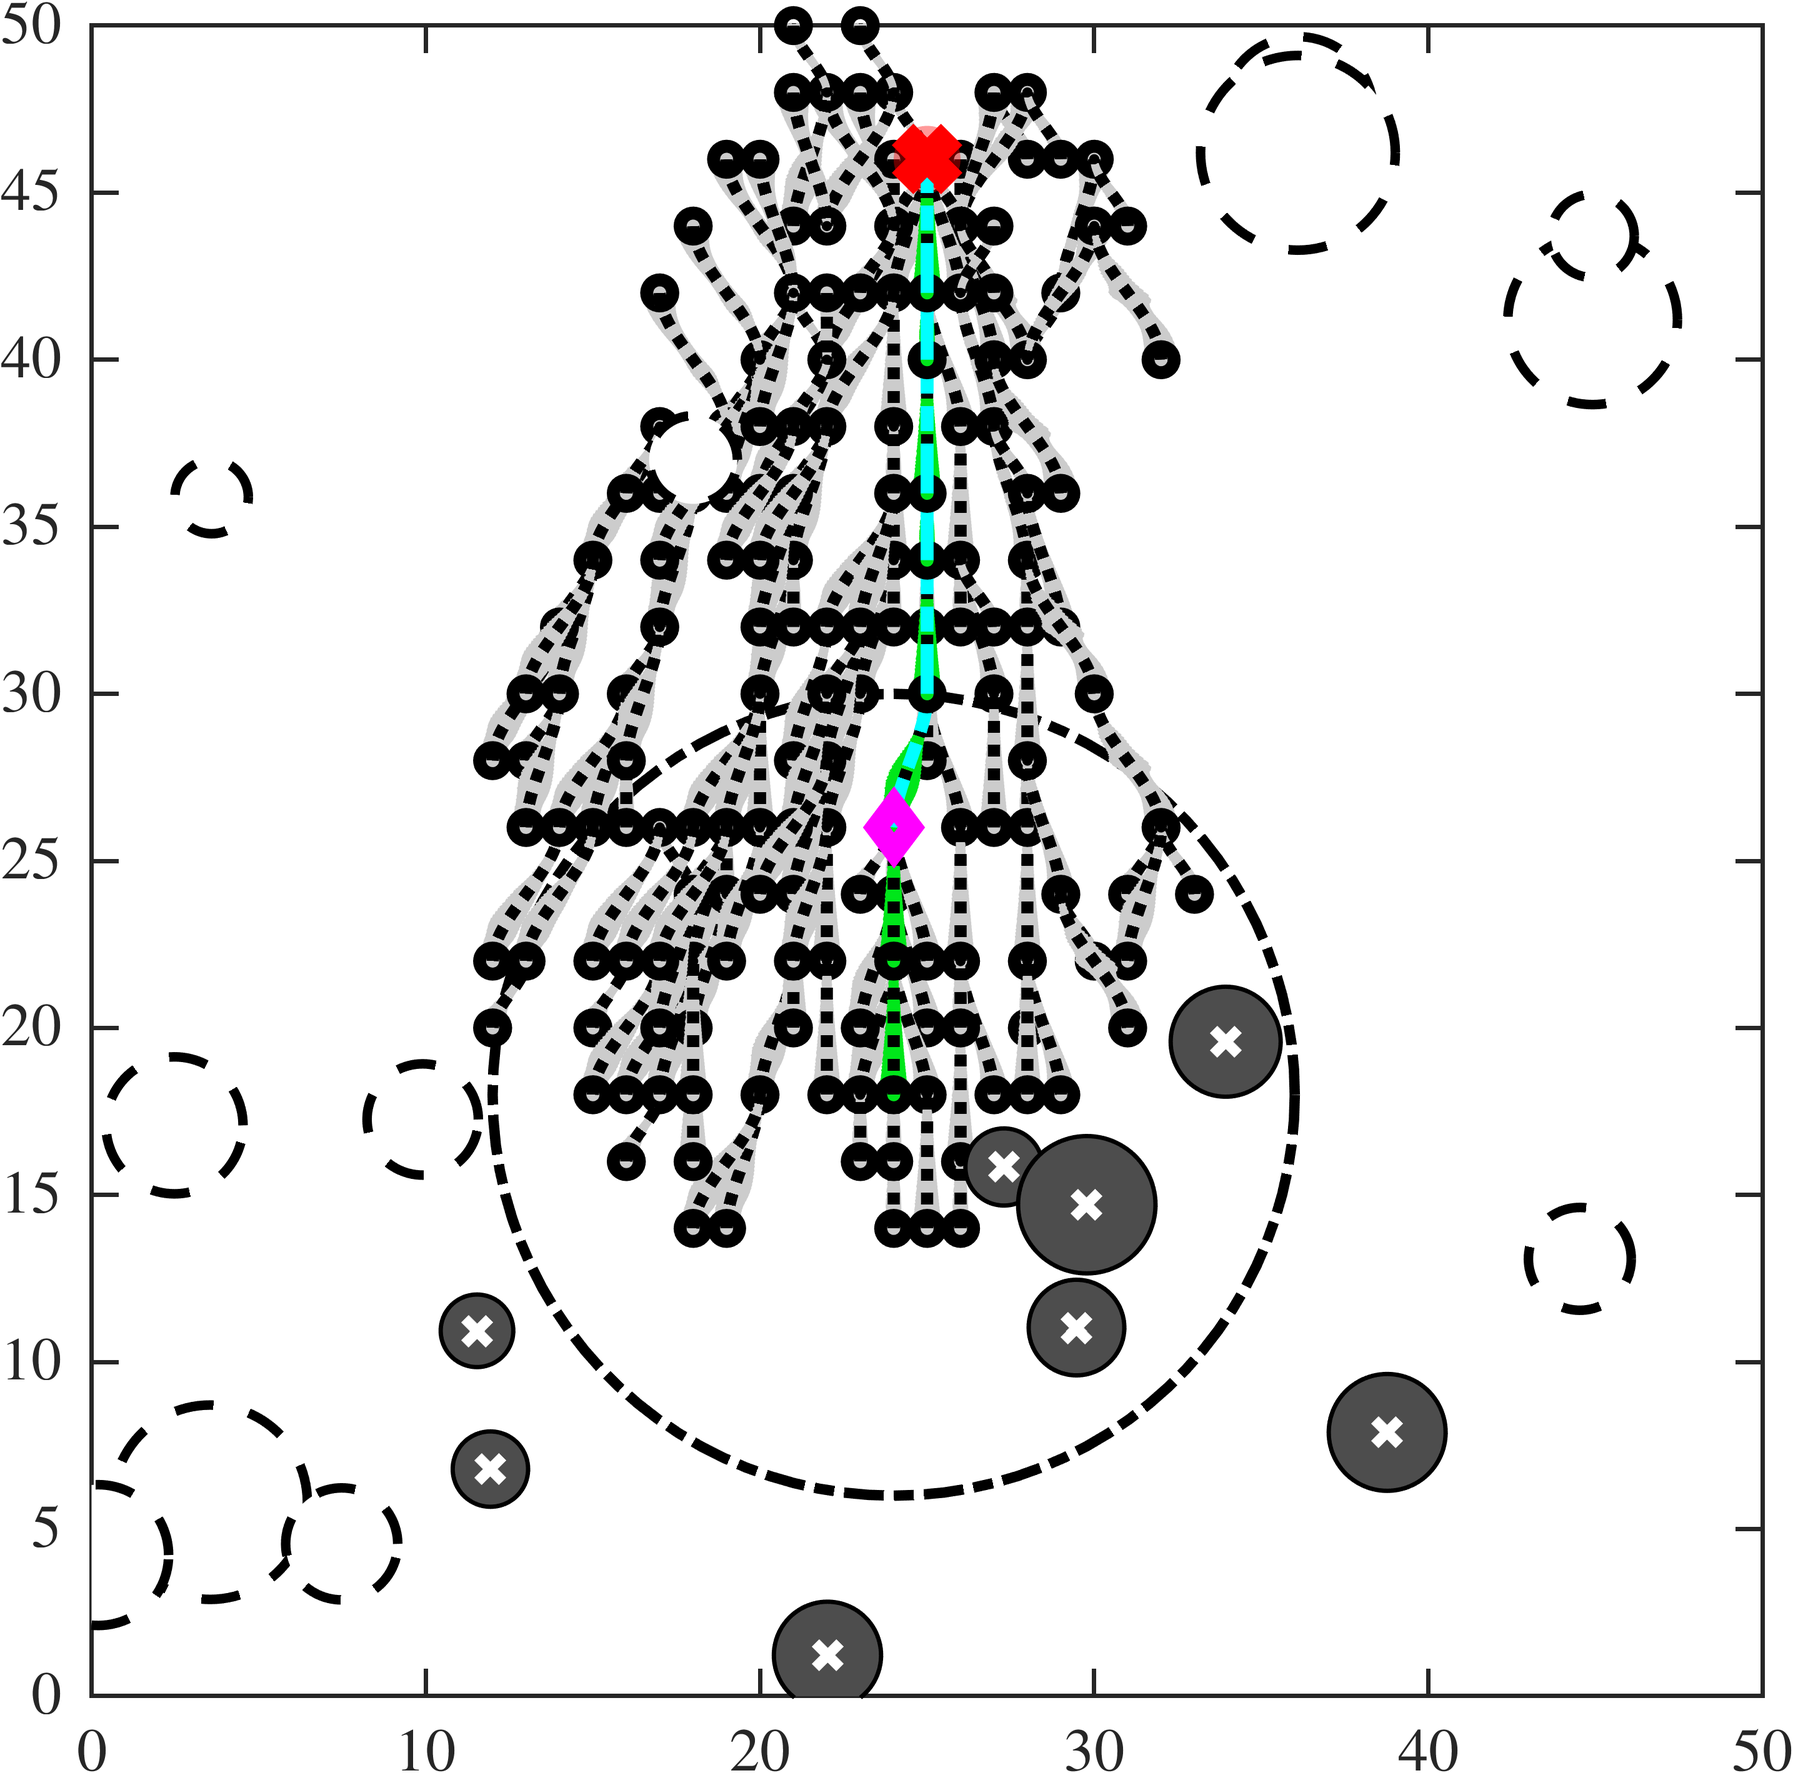
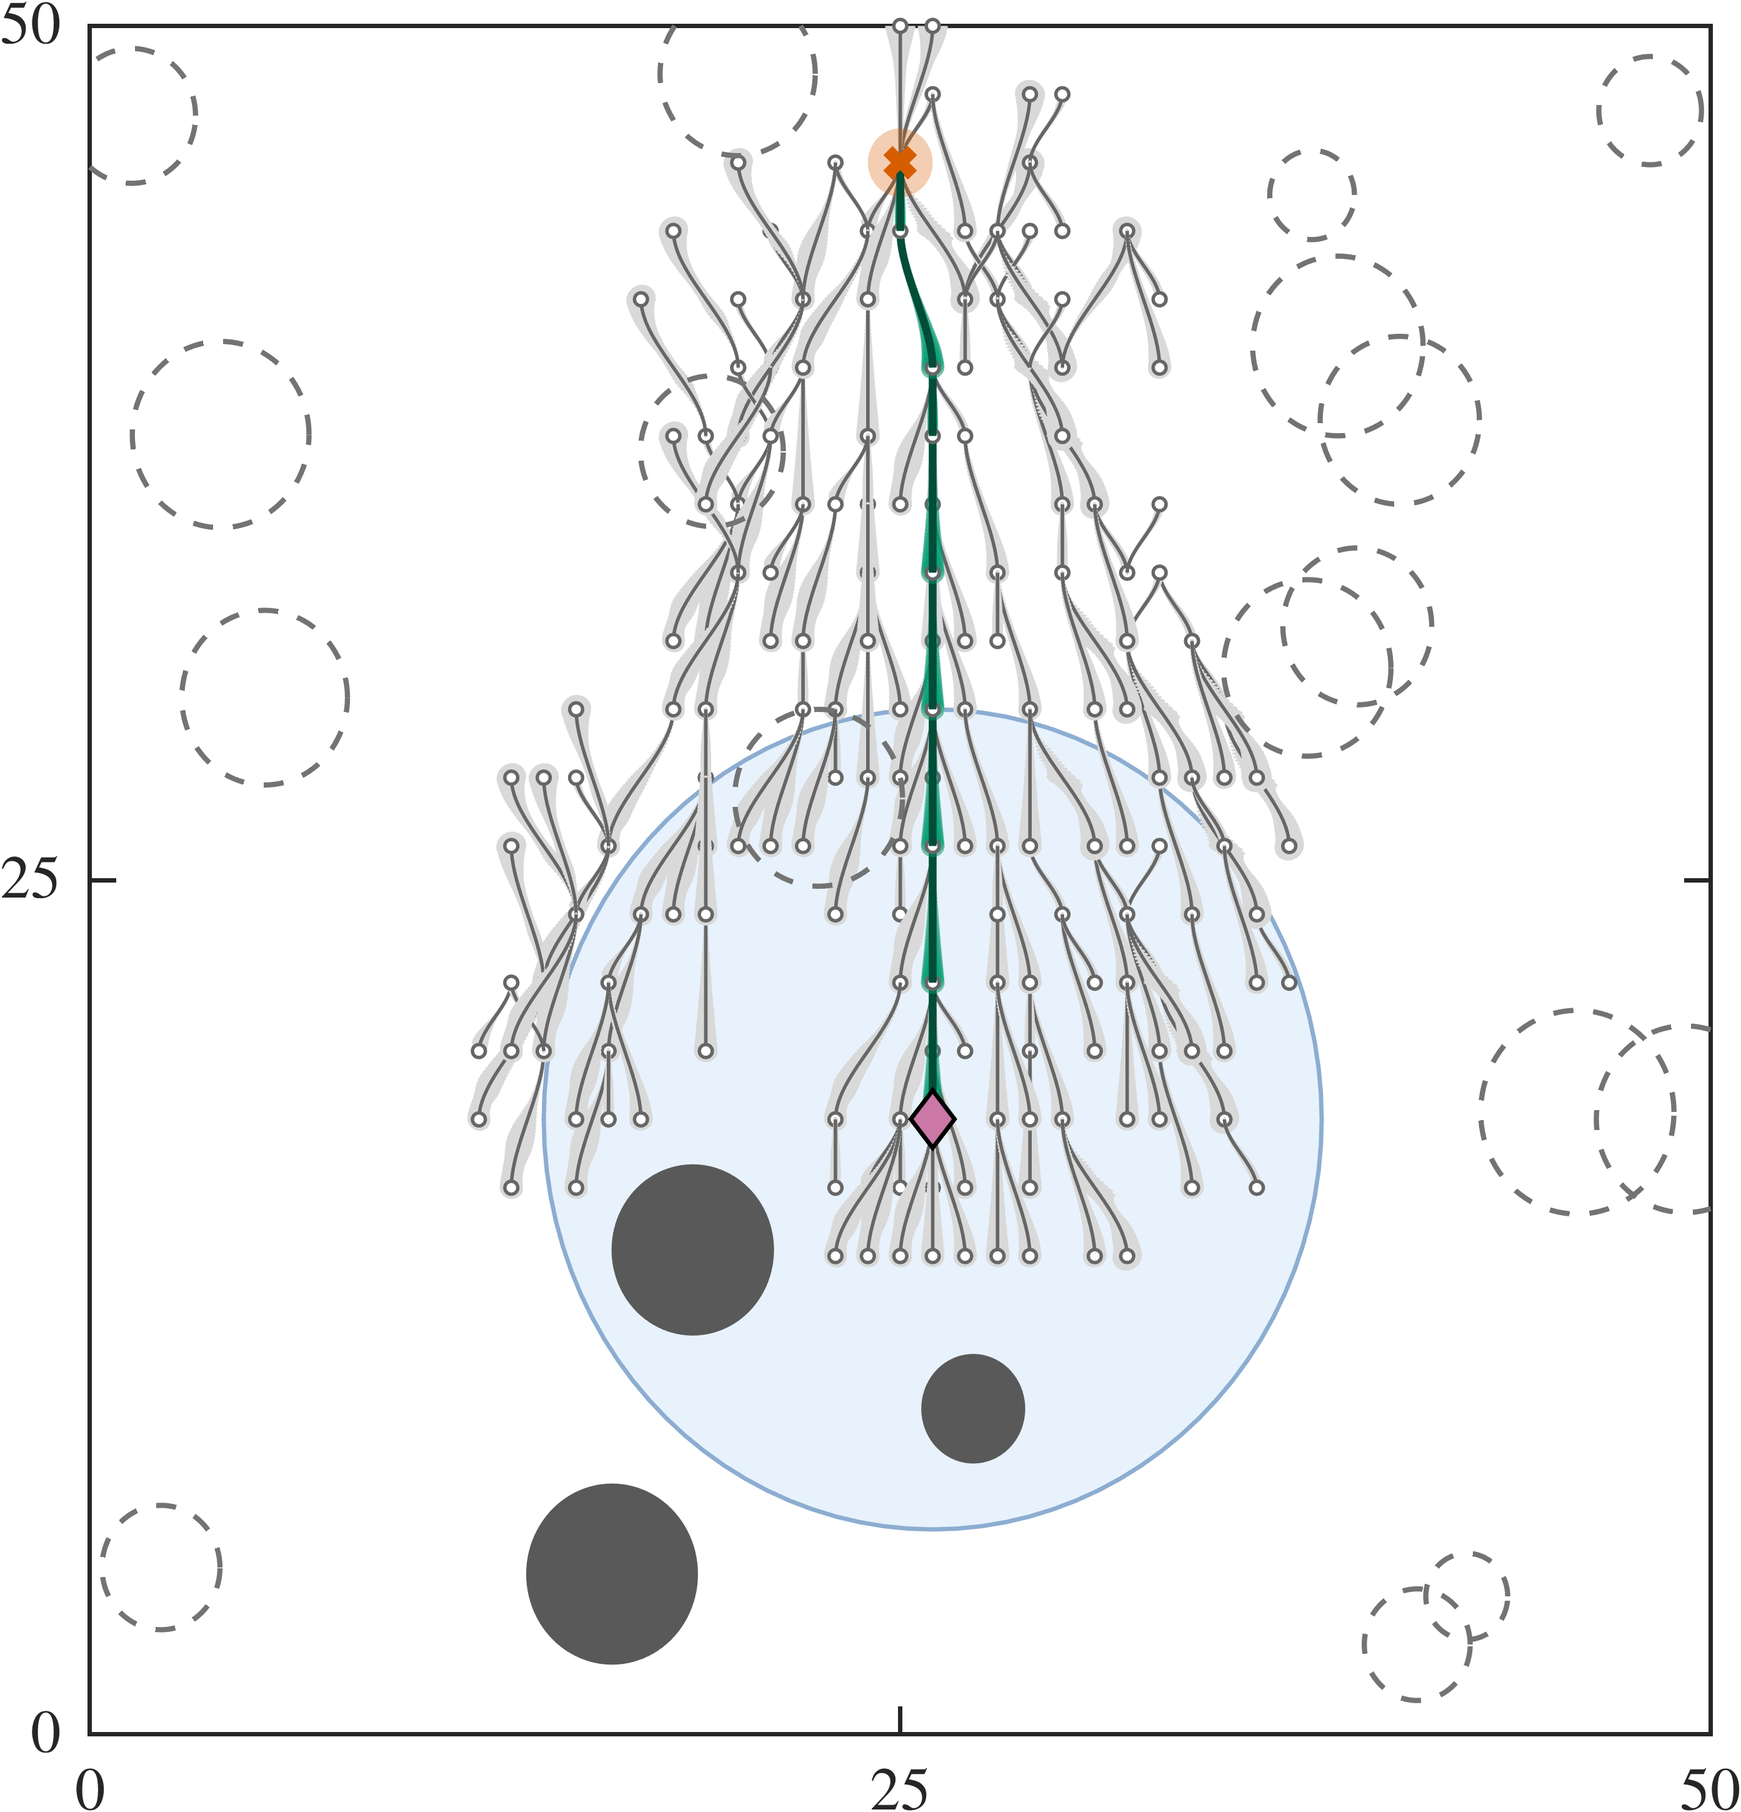
new color scheme for plots

diff --git a/planningCode/Unicycle/lib/searchFunnel.m b/planningCode/Unicycle/lib/searchFunnel.m
@@ -43,6 +43,9 @@ classdef searchFunnel < handle
         
         startNode
         goalNode
+
+        %temporary for paper plotting
+        newColorForPlotting
     end
     methods
         function obj = searchFunnel(library, extendDistance, libraryResolution)
@@ -76,7 +79,8 @@ classdef searchFunnel < handle
             obj.stateSpaceDimensionIndices = 1:3;     %3-state system
             obj.CspaceDimensionIndices = [1 2];  %x-y configuration space
             obj.workspaceDimensionIndices = [1 2]; %x-y workspace
-
+            
+            obj.newColorForPlotting = 1; %temporary for paper plotting
         end
         
         function obj = addNode(obj,node)
@@ -455,6 +459,30 @@ classdef searchFunnel < handle
         %-------------------------------------------------------%
         function drawSearchFunnel(obj)
             
+            
+            if obj.newColorForPlotting
+                C = newColorScheme();
+                for i=1:obj.numNodes
+                    thisNode = obj.graphNodes(i);
+                    if thisNode.withinObstacle || isnan(thisNode.bestInlet)
+                        continue
+                    end
+                    thisFunnel = obj.funnelEdges(thisNode.parentFunnelEdge);
+                    if ~isempty(thisFunnel)
+                        obj.drawFunnel(thisFunnel,1);
+                    end
+                end
+                %draw goal region
+                r = 1; theta = linspace(0, 2*pi, 100);
+                x = obj.goalNode.pose(1) + r * cos(theta);
+                y = obj.goalNode.pose(2) + r * sin(theta);
+                fill(x, y, C.goal, 'FaceAlpha', 0.3, 'EdgeColor', 'none');
+                plot(obj.goalNode.pose(1), obj.goalNode.pose(2), 'x', 'Color', C.goal, ...
+                    'MarkerSize', 4, 'LineWidth', 1.5);
+                
+                return
+            end
+            
             for i=1:obj.numNodes
                 thisNode = obj.graphNodes(i);
                 
@@ -465,7 +493,7 @@ classdef searchFunnel < handle
                 thisFunnel = obj.funnelEdges(thisNode.parentFunnelEdge);
                 
                 if ~isempty(thisFunnel)
-                    drawFunnel(obj,thisFunnel,1);
+                    obj.drawFunnel(thisFunnel,1);
                 end
             end
             
@@ -508,6 +536,36 @@ classdef searchFunnel < handle
         %draws the goal branch by backtracking through the parent pointers
         function drawGoalBranch(obj)
 
+            
+            if obj.newColorForPlotting
+                C = newColorScheme();
+                start = obj.startNode.pose;
+                goal = obj.goalNode.pose;
+                delta = 0.01;
+                tempNode = obj.startNode;
+                while 1
+                    if abs(tempNode.pose - goal) < delta
+                        break
+                    end
+                    if (isnan(tempNode.parent))
+                        disp('There does not exist a feasible path currently!');
+                        return
+                    end
+                    tempFunnel = obj.funnelEdges(tempNode.parentFunnelEdge);
+                    x = tempFunnel.trajectory_workSpace;
+                    obj.drawFunnel(tempFunnel,2);
+                    plot(x(1,:), x(2,:), '-', 'Color', C.branchTraj, 'LineWidth', 0.9);
+                    tempNode = obj.graphNodes(tempNode.parent);
+                end
+                plot(start(1), start(2), 'd', 'MarkerFaceColor', C.robot, ...
+                    'MarkerEdgeColor', 'k', 'MarkerSize', 5, 'LineWidth', 0.5);   % robot
+                plot(goal(1), goal(2), 'x', 'Color', C.goal, ...
+                    'MarkerSize', 4, 'LineWidth', 1.2);                            % goal
+
+                return
+            end
+            
+
             start = obj.startNode.pose;
             goal = obj.goalNode.pose;
             delta = 0.01;
@@ -529,7 +587,7 @@ classdef searchFunnel < handle
                 tempFunnel = obj.funnelEdges(tempNode.parentFunnelEdge);
                 
                 x = tempFunnel.trajectory_workSpace;
-                drawFunnel(obj,tempFunnel,2);
+                obj.drawFunnel(tempFunnel,2);
                 plot(x(1,:),x(2,:),'-.c','LineWidth',1.5);
                 
                 tempNode = obj.graphNodes(tempNode.parent);
@@ -537,8 +595,7 @@ classdef searchFunnel < handle
 
             %plot(start(1),start(2),'sg','LineWidth',3,'MarkerSize',7);
             plot(start(1),start(2),'dm', 'MarkerSize', 4, 'LineWidth', 2.5);
-            plot(goal(1),goal(2),'xr','LineWidth', 3,'MarkerSize',7);
-           
+            plot(goal(1),goal(2),'xr','LineWidth', 3,'MarkerSize',7);  
         end
         
         function drawAllFunnels(obj)
@@ -577,6 +634,18 @@ classdef searchFunnel < handle
 
         %draws trajectory, x in 2D space
         function drawTrajectory(obj,funnel)
+
+            if obj.newColorForPlotting
+                C = newColorScheme();
+                traj = funnel.trajectory_workSpace';
+                plot(traj(:,1), traj(:,2), '-', 'Color', C.treeTraj, 'LineWidth', 0.4);
+                plot(traj(1,1), traj(1,2), 'o', 'Color', C.treeTraj, ...
+                    'MarkerFaceColor', 'w', 'MarkerSize', 1.5, 'LineWidth', 0.4);  % inlet / node
+                % outlet dot removed: it coincides with the parent's inlet marker
+                
+                return
+            end
+
             traj = funnel.trajectory_workSpace';
             plot(traj(:,1),traj(:,2),':k','LineWidth',1.4);
             %Plotting the end and start points
@@ -586,6 +655,16 @@ classdef searchFunnel < handle
 
         %draws deleted trajectory, x in white
         function drawDeletedTrajectory(obj,funnel)
+            
+            if obj.newColorForPlotting
+                traj = funnel.trajectory_workSpace';
+                plot(traj(:,1), traj(:,2), '-w', 'LineWidth', 0.9);
+                plot(traj(1,1), traj(1,2), 'ow', 'MarkerFaceColor', 'w', ...
+                    'MarkerSize', 2.2, 'LineWidth', 0.6);
+
+                return
+            end
+
             traj = funnel.trajectory_workSpace';
             plot(traj(:,1),traj(:,2),':w','LineWidth',2.4);
             %Plotting the end and start points
@@ -597,6 +676,27 @@ classdef searchFunnel < handle
         %draws an ellipse defined by xTMx<1 with centre c
         %status - 2 - goal branch; 1 - normal edge; 0 - deleted edge
         function drawEllipse(obj, ellipseCenter, ellipseMatrix, status)
+            
+            
+            if obj.newColorForPlotting
+                C = newColorScheme();
+                [eig_vec, eig_val] = eig(ellipseMatrix);
+                theta = linspace(0, 2*pi, 20);
+                ellipse_boundary = eig_val^(-1/2) * [cos(theta); sin(theta)];
+                rotated_ellipse = eig_vec * ellipse_boundary;
+                if status == 2
+                    color = C.branch;  alpha = 0.45;   % translucent: trajectory stays visible
+                elseif status == 1
+                    color = C.tree;    alpha = 1;      % solid: overlaps don't stack into dark blotches
+                else
+                    color = [1 1 1];   alpha = 1;      % erase
+                end
+                fill(ellipseCenter(1) + rotated_ellipse(1,:), ...
+                     ellipseCenter(2) + rotated_ellipse(2,:), ...
+                     color, 'EdgeColor', 'none', 'FaceAlpha', alpha);
+
+                return
+            end
             
             [eig_vec, eig_val] = eig(ellipseMatrix);
             

diff --git a/planningCode/Unicycle/lib/forestEnvironment.m b/planningCode/Unicycle/lib/forestEnvironment.m
@@ -41,7 +41,10 @@ classdef forestEnvironment < handle
         obstacleTree
      
         %internal use
-        indexOfLast        
+        indexOfLast
+
+        %temporary for paper plotting
+        newColorForPlotting
     end
 
     methods
@@ -58,6 +61,8 @@ classdef forestEnvironment < handle
             obj.toleranceLimit = epsilon/2; %extra-padding       
             obj.sizeRange = sizeRange; %specify the size range of circular obstacles
             obj.mode = mode;
+
+            obj.newColorForPlotting = 1; %temporary for paper plotting
 
             if strcmpi(obj.mode, 'sensing')
                 obj.dynamicity = 0; %no obstacles get deleted
@@ -505,15 +510,27 @@ classdef forestEnvironment < handle
                 thisObstacle = obj.obstacles{i};
                 if(thisObstacle.status == 0)
                     obj.drawDeletedObstacle(thisObstacle);
-                else %plot inactive obstacles with dashed circles
+                else %plot inactive/unsensed obstacles
                     obj.drawActiveObstacle(thisObstacle);
                 end
             end
         end
-        
+
         %Function to draw shaded circular obstacles
         function drawActiveObstacle(obj,obstacle)
             
+            if obj.newColorForPlotting
+                C = newColorScheme();
+                center = obstacle.location;
+                radius = obstacle.radius;
+                th = 0:pi/50:2*pi;
+                xunit = radius * cos(th) + center(1);
+                yunit = radius * sin(th) + center(2);
+                fill(xunit, yunit, C.obstacle, 'EdgeColor', 'none');
+                % center 'x' removed: clutter at panel size
+                return
+            end
+
             center = obstacle.location;
             radius = obstacle.radius;
 
@@ -528,6 +545,20 @@ classdef forestEnvironment < handle
         
         %function to draw a deleted obstacle with dashed line
         function drawDeletedObstacle(obj,obstacle)
+            
+            if obj.newColorForPlotting
+                C = newColorScheme();
+                c = obstacle.location;
+                r = obstacle.radius;
+                th = 0:pi/50:2*pi;
+                xunit = r * cos(th) + c(1);
+                yunit = r * sin(th) + c(2);
+                % white fills removed: they punched holes in the sensor tint and
+                % hid parts of the tree that the planner (correctly) placed there
+                plot(xunit, yunit, '--', 'Color', C.obstacleUnsensed, 'LineWidth', 0.6);
+                
+                return
+            end
             
             color = [1 1 1];
             c = obstacle.location;
@@ -545,6 +576,22 @@ classdef forestEnvironment < handle
         
         %Function to draw circle representing sensor radius
         function drawSensorRadius(obj,c)
+            
+            if obj.newColorForPlotting
+                C = newColorScheme();
+                r = obj.sensorRadius;
+                hold on
+                th = 0:pi/50:2*pi;
+                xunit = r * cos(th) + c(1);
+                yunit = r * sin(th) + c(2);
+                h = fill(xunit, yunit, C.sensorFill, ...
+                    'EdgeColor', C.sensorEdge, 'LineWidth', 0.5);
+                uistack(h, 'bottom');   % stays behind everything, whatever the call order
+                % center 'x' removed: the robot marker already shows the position
+
+                return
+            end
+
             r = obj.sensorRadius;
             hold on
             th = 0:pi/50:2*pi;

diff --git a/planningCode/Unicycle/PiPXForestSense.m b/planningCode/Unicycle/PiPXForestSense.m
@@ -321,6 +321,26 @@ traversedFunnelPath = cell(totalIterationLimit - prePlanningIterationLimit,1);
 count = 1;
 while (robotMoveStatus  && iteration<totalIterationLimit) || C.startNode.index ~= C.goalNode.index
     
+    if drawForPaper %pretty plots for the paper
+        if mod(iteration,robotMovementFrequency) == 0 && robotMoveStatus %drawing solution funnel-paths if they exist
+            %instantiate an empty figure (for IJRR paper)
+            fig = ijrr_fig('single', 1); %single column | ratio of height/width
+            axis equal; hold on
+            xlim([W.envLB_x W.envUB_x])
+            ylim([W.envLB_y W.envUB_y])
+            %rectangle('Position',[W.envLB_x, W.envLB_y, W.envUB_x - W.envLB_x, W.envUB_y - W.envLB_y]) %lower-left corner, width, height
+            
+            xticks(0:25:50); yticks(0:25:50);
+
+            W.drawSensorRadius(C.startNode.pose);
+            F.drawSearchFunnel();
+            F.drawGoalBranch();
+            W.drawAllObstacles();
+            drawnow
+
+            ijrr_save(fig, ['forest_sense_' num2str(iteration)], 'png', Folder='./paper_figures');
+        end
+    end
     
     %sense obstacles
     if mod(iteration,sensingFrequency) == 0
@@ -358,20 +378,6 @@ while (robotMoveStatus  && iteration<totalIterationLimit) || C.startNode.index ~
 
     %move the robot
     if mod(iteration,robotMovementFrequency) == 0
-       
-        if drawForPaper %pretty plots for the paper
-            %instantiate an empty figure (for IJRR paper)
-            fig = ijrr_fig('single', 1); %single column | ratio of height/width
-            
-            axis equal; hold on
-            xlim([W.envLB_x W.envUB_x])
-            ylim([W.envLB_y W.envUB_y])
-            %rectangle('Position',[W.envLB_x, W.envLB_y, W.envUB_x - W.envLB_x, W.envUB_y - W.envLB_y]) %lower-left corner, width, height
-            
-            W.drawAllObstacles(); W.drawSensorRadius(C.startNode.pose);
-            F.drawSearchFunnel();
-            drawnow
-        end
 
         %robot-motion
         disp(' '); disp(' ');
@@ -442,19 +448,6 @@ while (robotMoveStatus  && iteration<totalIterationLimit) || C.startNode.index ~
                 frame = getframe(gcf);
                 writeVideo(writerObj, frame);
             end
-        end
-    end
-    
-    if drawForPaper
-        if mod(iteration,robotMovementFrequency) == 0 && robotMoveStatus %drawing solution funnel-paths if they exist
-
-            W.drawAllObstacles(); F.drawGoalBranch();
-            %plot(C.currentRobotNode.pose(1),C.currentRobotNode.pose(2), ...
-            % 'dm', 'MarkerSize', 6, 'LineWidth', 3.5);
-            drawnow
-    
-            %args: fig handle, file name, format (png/eps), and folder to be saved
-            ijrr_save(fig, ['forest_sense_' num2str(iteration)], 'png', Folder='./paper_figures');
         end
     end
 

diff --git a/planningCode/Unicycle/lib/newColorScheme.m b/planningCode/Unicycle/lib/newColorScheme.m
@@ -1,0 +1,20 @@
+function C = newColorScheme()
+    % colorblind-safe palette (Okabe-Ito based) for all paper figures.
+    %   C = newColorScheme();  plot(..., 'Color', C.pipx)
+    
+    % Methods (baseline comparison plots)
+    C.pipx = [0.00 0.45 0.70];          % blue
+    C.rrtx = [0.84 0.37 0.00];          % vermillion
+    
+    % Planner snapshots
+    C.sensorFill       = [0.91 0.95 0.99];   % very light blue tint
+    C.sensorEdge       = [0.55 0.68 0.82];
+    C.obstacle         = [0.35 0.35 0.35];   % sensed: dark gray fill
+    C.obstacleUnsensed = [0.45 0.45 0.45];   % not yet sensed: dashed outline
+    C.tree             = [0.85 0.85 0.85];   % search-tree funnels
+    C.treeTraj         = [0.40 0.40 0.40];   % search-tree nominal trajectories
+    C.branch           = [0.00 0.62 0.45];   % goal-branch funnels (bluish green)
+    C.branchTraj       = [0.00 0.30 0.22];   % goal-branch trajectory (dark green)
+    C.robot            = [0.80 0.47 0.65];   % reddish purple
+    C.goal             = [0.84 0.37 0.00];   % vermillion
+end
